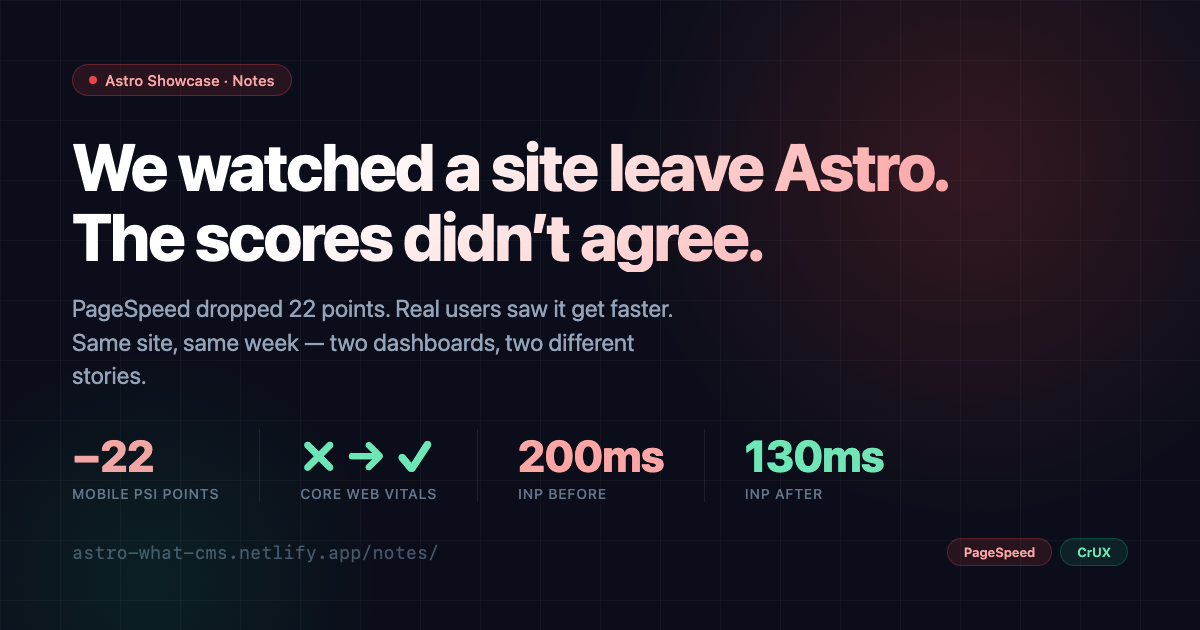
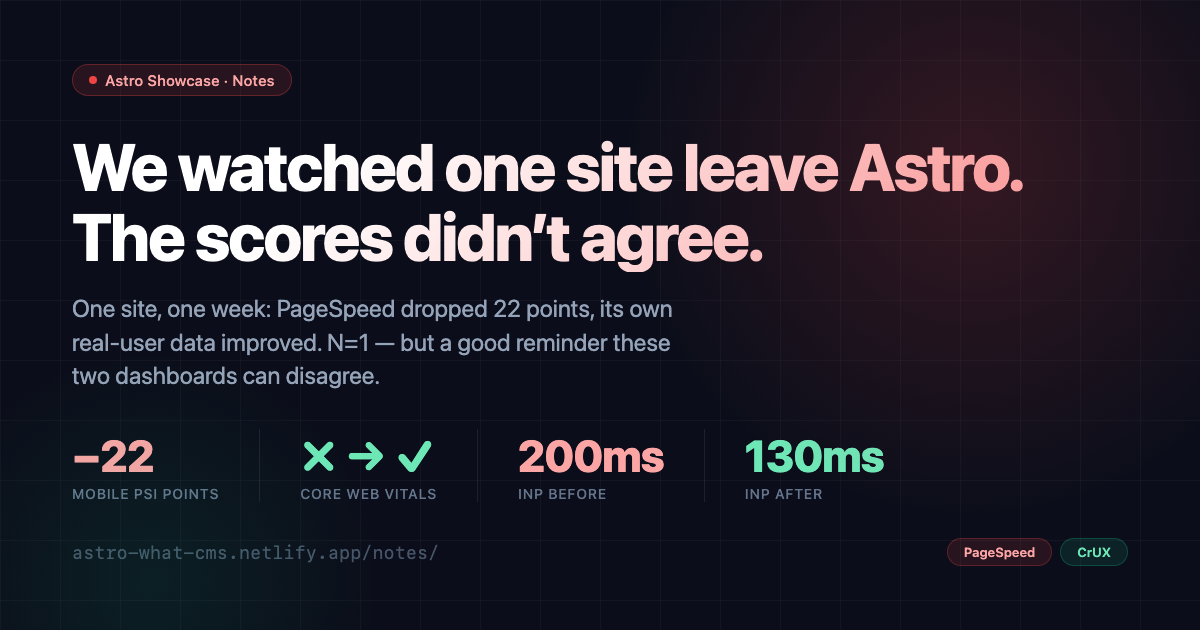
Nextjs migration

Changed region(s): [[0.0617, 0.4524, 0.555, 0.6333], [0.37, 0.2111, 0.8633, 0.3016]]

diff --git a/scripts/og-templates/og-card-note-astro-vs-nextjs.html b/scripts/og-templates/og-card-note-astro-vs-nextjs.html
@@ -203,10 +203,11 @@
 			</div>
 
 			<div class="headline">
-				<div class="title">We watched a site leave Astro. The scores didn’t agree.</div>
+				<div class="title">We watched one site leave Astro. The scores didn’t agree.</div>
 				<div class="subtitle">
-					PageSpeed dropped 22 points. Real users saw it get faster. Same
-					site, same week — two dashboards, two different stories.
+					One site, one week: PageSpeed dropped 22 points, its own
+					real-user data improved. N=1 — but a good reminder these two
+					dashboards can disagree.
 				</div>
 			</div>
 
